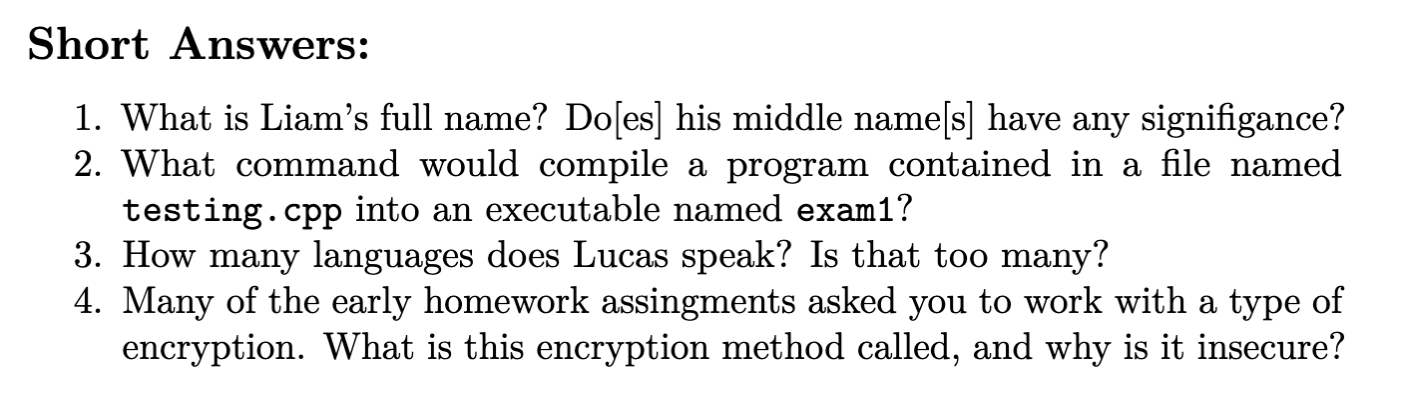
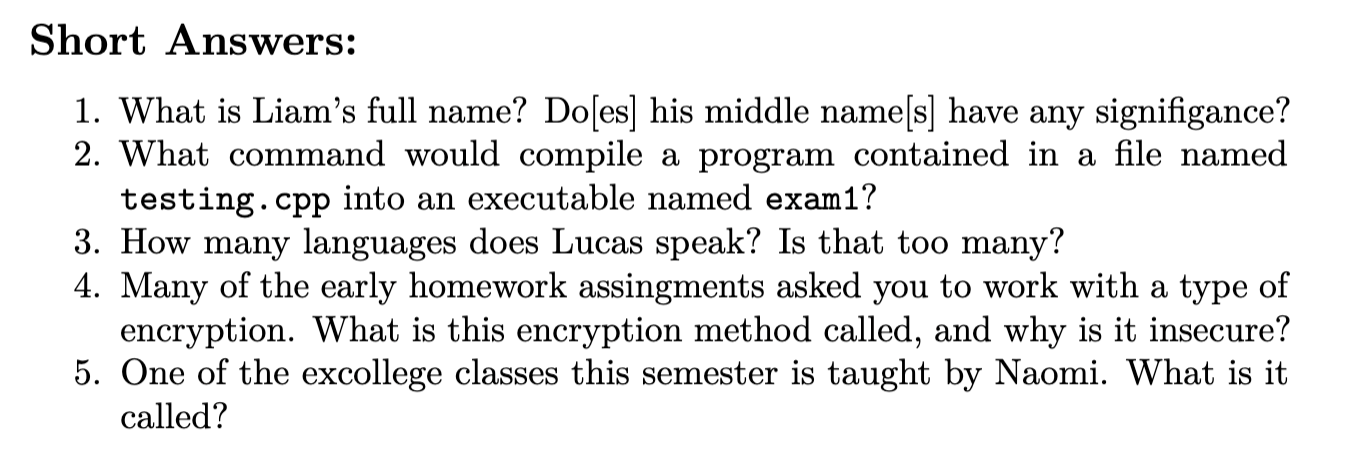
update pictures

Changed region(s): [[0.0311, 0.1827, 0.963, 0.9442], [0.0, 0.0305, 0.2796, 0.1523]]

diff --git a/midterm_review/test.md b/midterm_review/test.md
@@ -6,13 +6,13 @@
 | loop     | `main()` | function |
 | CS 11    | Lucas    | C++      |
 | Richard  | pointer  | address  |
-| variable | argument | type     |
+| variable | Naomi | type     |
 
 ## Fill in the Blank!
 
 1. When a program is executed, the first line of code that runs is at the beginning of \_\_\_\_.
 2. We use \_\_\_\_ to compile a source code file containing a program written in \_\_\_\_ to an executable.
-3. Your professor is named \_\_\_\_. One of his TA's, \_\_\_\_ likes all types of waffles, while another TA, \_\_\_\_, has very strong opinions on the matter.
+3. Your professor is named \_\_\_\_. One of his TA's, \_\_\_\_ likes all types of waffles, while another TA, \_\_\_\_, has very strong opinions on the matter. Another one of his TA's, \_\_\_\_, is indiferent about waffles.
 
 ## Short Answers:
 
@@ -20,6 +20,7 @@
 2. What command would compile a program contained in a file named `testing.cpp` into an executable named `exam1`?
 3. How many languages does Lucas speak? Is that too many?
 4. Many of the early homework assingments asked you to work with a type of encryption. What is this encryption method called, and why is it insecure?
+5. One of the excollege classes this semester is taught by Naomi. What is it called?
 
 ## Programming:
 
